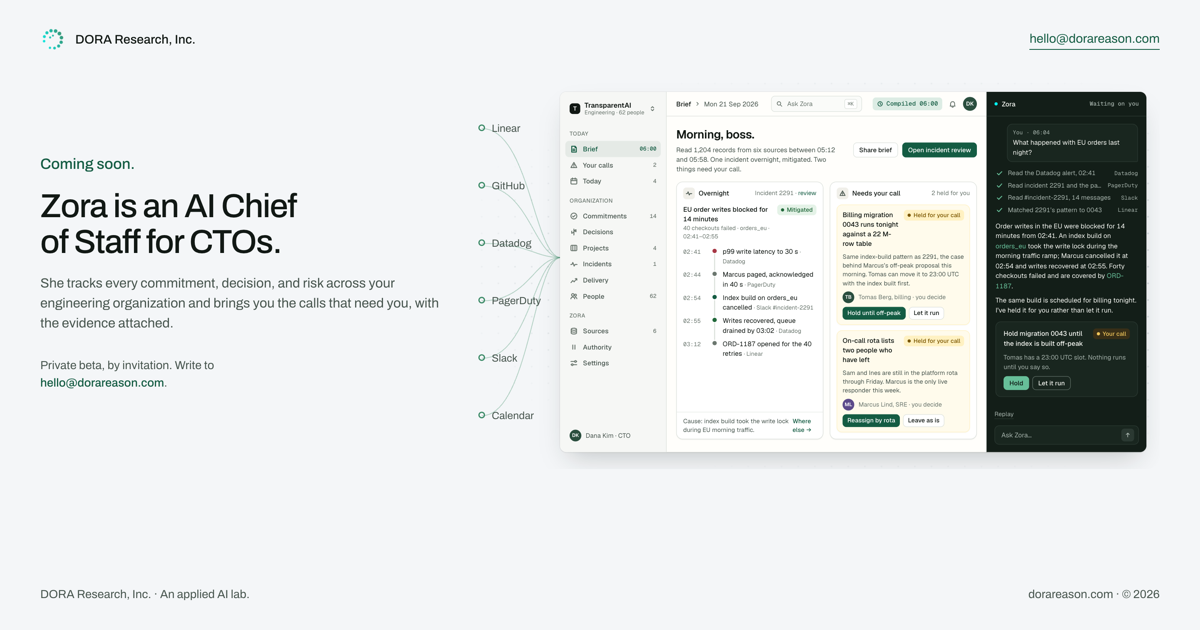
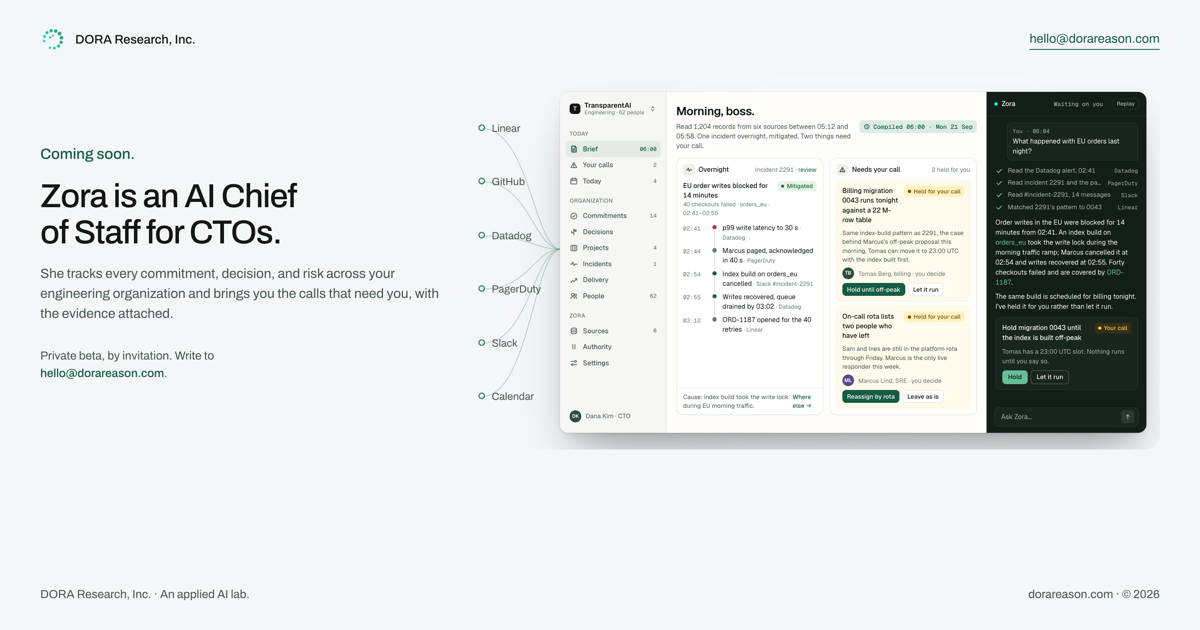
Lift the window off the page and drop the brief's top bar (#17)
* Lift the window off the page and drop the brief's top bar

The window is laid out at its real size with zoom instead of a scaled
raster, so hairlines land on device pixels. It sits on a clean white wash
instead of the dot grid, with a layered shadow, a light rim, 16 px corners,
and a rise on load (off under reduced motion). The brief's top bar is gone:
it repeated the sidebar and the greeting and read as noise at this size.
The compiled time joins the greeting; Replay moves into Zora's header so the
hold card and the input both fit.

* Social image cut from the lifted window

---------

diff --git a/public/coming-soon.html b/public/coming-soon.html
@@ -29,7 +29,7 @@
     --living: #3D8B68; --cyan: #03F5F2;
     /* night, for Zora's own panel */
     --n-ground: #131E18; --n-raised: #19261F; --n-hover: #23382F; --n-line: #2B3932; --n-strong: #5D6C64; --n-text: #F5F7F2; --n-muted: #A4B1AA; --n-mint: #67BF99; --n-mint-soft: #183428; --n-warn: #F1C65A; --n-warn-soft: #392F17; --n-rose: #F08A9A; --n-rose-soft: #3C2028; --n-ok: #72CF82; --n-ok-soft: #193A22;
-    --window-shadow: 0 1px 2px rgba(13,21,17,.05), 0 24px 48px -16px rgba(13,21,17,.22), 0 0 0 1px rgba(13,21,17,.06);
+    --window-shadow: 0 0 0 1px rgba(13,21,17,.06), inset 0 1px 0 rgba(255,255,255,.75), 0 1px 2px rgba(13,21,17,.05), 0 6px 12px -6px rgba(13,21,17,.08), 0 24px 48px -16px rgba(13,21,17,.18), 0 64px 96px -32px rgba(13,21,17,.28);
     --ui: 'Geist', -apple-system, BlinkMacSystemFont, 'Segoe UI', sans-serif;
     --mono: 'Geist Mono', ui-monospace, 'SF Mono', Menlo, monospace;
   }
@@ -59,7 +59,7 @@
 
   /* the stage: a dot-grid plate with the six sources feeding the scaled window */
   .stage { position: relative; min-width: 0; width: 100%; justify-self: end; display: grid; grid-template-columns: 104px minmax(0, 1fr); padding: 20px 16px 20px 0; border-radius: 16px; overflow: hidden; }
-  .stage::before { content: ''; position: absolute; inset: 0; background-image: radial-gradient(circle, #C7CFD3 1px, transparent 1.2px); background-size: 20px 20px; -webkit-mask-image: radial-gradient(ellipse at 60% 50%, #000 30%, transparent 78%); mask-image: radial-gradient(ellipse at 60% 50%, #000 30%, transparent 78%); }
+  .stage::before { content: ''; position: absolute; inset: 0; background: radial-gradient(70% 90% at 62% 48%, rgba(255,255,255,.85), rgba(255,255,255,0) 72%); }
   .feed { position: relative; min-width: 0; }
   .feed svg { position: absolute; inset: 0; width: 100%; height: 100%; overflow: visible; }
   .feed svg path { fill: none; stroke: var(--living); stroke-width: 1; opacity: .35; }
@@ -70,9 +70,11 @@
   html.reduced .feed svg path.flow { display: none; }
   .feed-src { position: absolute; left: 6px; transform: translateY(-50%); padding-left: 16px; font-size: 12.5px; color: var(--muted); white-space: nowrap; }
   .feed-src::before { content: ''; position: absolute; left: 0; top: 50%; width: 8px; height: 8px; margin-top: -5px; border-radius: 50%; border: 1.5px solid var(--living); box-sizing: border-box; }
-  .slot { position: relative; min-width: 0; }
-  .frame { width: 1100px; transform-origin: 0 0; }
-  .window { position: relative; height: 676px; display: grid; grid-template-columns: 200px minmax(0, 1fr) 300px; grid-template-rows: minmax(0, 1fr); border-radius: 12px; background: var(--raised); box-shadow: var(--window-shadow); overflow: hidden; font-family: var(--ui); font-size: 12.5px; line-height: 1.45; color: var(--ink); }
+  .slot { position: relative; min-width: 0; animation: rise 900ms cubic-bezier(.2,.7,.2,1) both; }
+  @keyframes rise { from { opacity: 0; transform: translateY(14px); } to { opacity: 1; transform: none; } }
+  html.reduced .slot { animation: none; }
+  .frame { width: 1100px; }
+  .window { position: relative; height: 640px; display: grid; grid-template-columns: 200px minmax(0, 1fr) 300px; grid-template-rows: minmax(0, 1fr); border-radius: 16px; background: var(--raised); box-shadow: var(--window-shadow); overflow: hidden; font-family: var(--ui); font-size: 12.5px; line-height: 1.45; color: var(--ink); }
 
   /* sidebar */
   .side { background: #F6F7F5; border-right: 1px solid var(--rule); padding: 12px 10px; display: flex; flex-direction: column; gap: 2px; font-size: 12.5px; min-height: 0; overflow: hidden; }
@@ -99,14 +101,14 @@
   .search { flex: 1; max-width: 200px; height: 30px; margin: 0 8px 0 12px; white-space: nowrap; border: 1px solid var(--rule); border-radius: 7px; background: #FAFBF9; display: flex; align-items: center; gap: 8px; padding: 0 8px; color: var(--faint); font-size: 12px; }
   .search kbd { margin-left: auto; font-family: var(--mono); font-size: 10px; border: 1px solid var(--rule); border-radius: 4px; padding: 1px 5px; color: var(--faint); background: #fff; }
   .bar .right { margin-left: auto; display: flex; align-items: center; gap: 12px; }
-  .pill { display: inline-flex; align-items: center; gap: 6px; height: 24px; padding: 0 8px; border-radius: 6px; font-size: 11.5px; font-weight: 500; }
+  .pill { display: inline-flex; align-items: center; gap: 6px; height: 24px; padding: 0 8px; border-radius: 6px; font-size: 11.5px; font-weight: 500; white-space: nowrap; }
   .pill.time { background: var(--action-soft); color: var(--action); font-family: var(--mono); font-weight: 500; }
   .me { width: 26px; height: 26px; border-radius: 50%; background: #2A4E3E; color: #fff; display: grid; place-items: center; font-size: 10.5px; font-weight: 600; }
-  .content { padding: 18px 18px 24px; overflow: hidden; }
+  .content { padding: 20px 18px 24px; overflow: hidden; }
   .greet { display: flex; align-items: center; justify-content: space-between; gap: 16px; margin-bottom: 14px; }
   .greet h2 { margin: 0; font-size: 22px; font-weight: 600; letter-spacing: -.02em; }
   .greet p { margin: 4px 0 0; color: var(--muted); font-size: 12.5px; }
-  .greet .actions { display: flex; gap: 8px; }
+  .greet .actions { display: flex; gap: 8px; flex: none; }
   .btn { display: inline-flex; align-items: center; gap: 6px; height: 28px; white-space: nowrap; padding: 0 10px; border-radius: 7px; border: 1px solid var(--rule); background: #fff; color: var(--ink); font: inherit; font-size: 12px; font-weight: 500; cursor: pointer; }
   .btn:hover { border-color: var(--faint); }
   .btn.primary { background: var(--action); border-color: var(--action); color: #fff; }
@@ -197,7 +199,7 @@
   .zp-h .st { margin-left: auto; font-size: 11px; color: var(--n-muted); font-family: var(--mono); }
   .zp-h .st.busy::after { content: ''; display: inline-block; width: 6px; height: 6px; margin-left: 6px; border-radius: 50%; background: var(--n-mint); animation: blink 1s ease-in-out infinite; vertical-align: 1px; }
   @keyframes blink { 50% { opacity: .2; } }
-  .tr { flex: 1; min-height: 0; overflow: hidden; padding: 14px 16px 8px; display: flex; flex-direction: column; gap: 12px; font-size: 12.5px; line-height: 1.5; }
+  .tr { flex: 1; min-height: 0; overflow: hidden; padding: 12px 16px 6px; display: flex; flex-direction: column; gap: 10px; font-size: 12.5px; line-height: 1.5; }
   .msg { opacity: 0; transform: translateY(4px); transition: opacity 260ms ease, transform 260ms ease; }
   .msg.in { opacity: 1; transform: none; }
   .msg.you { align-self: flex-end; max-width: 92%; background: var(--n-raised); border: 1px solid var(--n-line); border-radius: 10px 10px 2px 10px; padding: 7px 10px; }
@@ -214,7 +216,7 @@
   .msg.z p { margin: 0 0 8px; }
   .msg.z p:last-child { margin-bottom: 0; }
   .msg.z .ref { color: var(--n-mint); }
-  .card { border: 1px solid var(--n-line); background: var(--n-raised); border-radius: 10px; padding: 12px 14px; display: grid; gap: 8px; }
+  .card { border: 1px solid var(--n-line); background: var(--n-raised); border-radius: 10px; padding: 10px 12px; display: grid; gap: 8px; }
   .card .ct { font-weight: 500; display: flex; gap: 8px; align-items: flex-start; }
   .card .ct .chip { margin-left: auto; }
   .card .cd { color: var(--n-muted); font-size: 12px; }
@@ -225,16 +227,15 @@
   .nbtn:hover { border-color: var(--n-text); }
   .chip.nhold { color: var(--n-warn); background: var(--n-warn-soft); }
   .chip.nok { color: var(--n-ok); background: var(--n-ok-soft); }
-  .ask { margin: 0 14px 14px; border: 1px solid var(--n-line); background: var(--n-raised); border-radius: 9px; display: flex; align-items: center; gap: 8px; padding: 0 8px 0 12px; height: 36px; color: var(--n-muted); font-size: 12.5px; }
+  .ask { margin: 0 14px 12px; border: 1px solid var(--n-line); background: var(--n-raised); border-radius: 9px; display: flex; align-items: center; gap: 8px; padding: 0 8px 0 12px; height: 36px; color: var(--n-muted); font-size: 12.5px; }
   .ask .send { margin-left: auto; width: 24px; height: 24px; border-radius: 6px; background: var(--n-line); display: grid; place-items: center; color: var(--n-muted); }
-  .zp .replay { margin: 0 14px 12px; align-self: flex-start; font: inherit; font-size: 11.5px; color: var(--n-muted); background: none; border: 0; padding: 0; border-bottom: 1px solid var(--n-line); cursor: pointer; }
+  .zp .replay { margin-left: 10px; font: inherit; font-size: 10.5px; color: var(--n-muted); background: none; border: 1px solid var(--n-line); border-radius: 5px; padding: 2px 7px; cursor: pointer; }
   .zp .replay:hover { color: var(--n-text); border-color: var(--n-text); }
 
   .grid > .w:nth-child(n+3) { display: none; }
   @media (max-width: 960px) {
     .hero { grid-template-columns: 1fr; gap: 20px; }
-    .frame { width: auto !important; transform: none !important; }
-    .slot { height: auto !important; }
+    .frame { width: auto !important; zoom: 1 !important; }
     .stage { grid-template-columns: 1fr; padding: 20px 12px; }
     .feed { display: none; }
     .window { grid-template-columns: 1fr; height: auto; }
@@ -261,6 +262,7 @@
     .top .mark g { animation: none; }
     .zp-h .st.busy::after { animation: none; }
     .feed svg path.flow { display: none; }
+    .slot { animation: none; }
   }
   html.reduced .w, html.reduced .msg, html.reduced .step, html.reduced .draw, html.reduced .grow-y, html.reduced .fill { transition: none !important; }
   @media (prefers-reduced-motion: reduce) { .w, .msg, .step, .draw, .grow-y, .fill { transition: none !important; } }
@@ -346,20 +348,13 @@
         </aside>
 
         <div class="main">
-          <div class="bar">
-            <span class="crumb"><b>Brief</b><svg class="i" style="width:12px;height:12px;color:var(--faint)"><use href="#i-chev"/></svg>Mon 21 Sep 2026</span>
-            <div class="search"><svg class="i" style="width:13px;height:13px"><use href="#i-search"/></svg>Ask Zora<kbd>⌘K</kbd></div>
-            <div class="right"><span class="pill time"><svg class="i" style="width:12px;height:12px"><use href="#i-clock"/></svg>Compiled 06:00</span>
-            <svg class="i" style="color:var(--faint)"><use href="#i-bell"/></svg>
-            <span class="me">DK</span></div>
-          </div>
           <div class="content">
             <div class="greet">
               <div>
                 <h2 id="greet">Morning, boss.</h2>
                 <p>Read 1,204 records from six sources between 05:12 and 05:58. One incident overnight, mitigated. Two things need your call.</p>
               </div>
-              <div class="actions" aria-hidden="true"><button class="btn" type="button" tabindex="-1">Share brief</button><button class="btn primary" type="button" tabindex="-1">Open incident review</button></div>
+              <div class="actions"><span class="pill time"><svg class="i" style="width:12px;height:12px"><use href="#i-clock"/></svg>Compiled 06:00 · Mon 21 Sep</span></div>
             </div>
 
             <div class="grid" id="grid">
@@ -502,7 +497,7 @@
         </div>
 
         <aside class="zp" aria-label="Zora’s panel">
-          <div class="zp-h"><span class="dot"></span>Zora<span class="st" id="zst">In the room</span></div>
+          <div class="zp-h"><span class="dot"></span>Zora<span class="st" id="zst">In the room</span><button class="replay" id="replay" type="button">Replay</button></div>
           <div class="tr" id="tr">
             <div class="msg you" id="m-you"><span class="who">You · 06:04</span>What happened with EU orders last night?</div>
             <div class="msg" id="m-steps"><div class="steps">
@@ -523,7 +518,6 @@
             <div class="msg z" id="m-after"><p id="after-text"></p></div>
             <div class="msg z" id="m-rota"><p id="rota-text"></p></div>
           </div>
-          <button class="replay" id="replay" type="button">Replay</button>
           <div class="ask"><span>Ask Zora…</span><span class="send"><svg class="i" style="width:13px;height:13px"><use href="#i-send"/></svg></span></div>
         </aside>
       </div>
@@ -580,10 +574,9 @@
   const srcEls = SOURCES.map((n) => { const d = document.createElement('div'); d.className = 'feed-src'; d.textContent = n; sourcesEl.appendChild(d); return d; });
   let threadPaths = [];
   function fit() {
-    if (matchMedia('(max-width: 960px)').matches) { frame.style.width = ''; frame.style.transform = ''; slot.style.height = ''; return; }
+    if (matchMedia('(max-width: 960px)').matches) { frame.style.width = ''; frame.style.zoom = ''; return; }
     const avail = slot.clientWidth, w = Math.max(1100, avail), s = avail / w;
-    frame.style.width = w + 'px'; frame.style.transform = 'scale(' + s.toFixed(4) + ')';
-    slot.style.height = Math.round(676 * s) + 'px';
+    frame.style.width = w + 'px'; frame.style.zoom = s.toFixed(4);
     drawFeed();
   }
   // Six threads from the sources into the window's left edge; the data flows in, the brief comes out.
